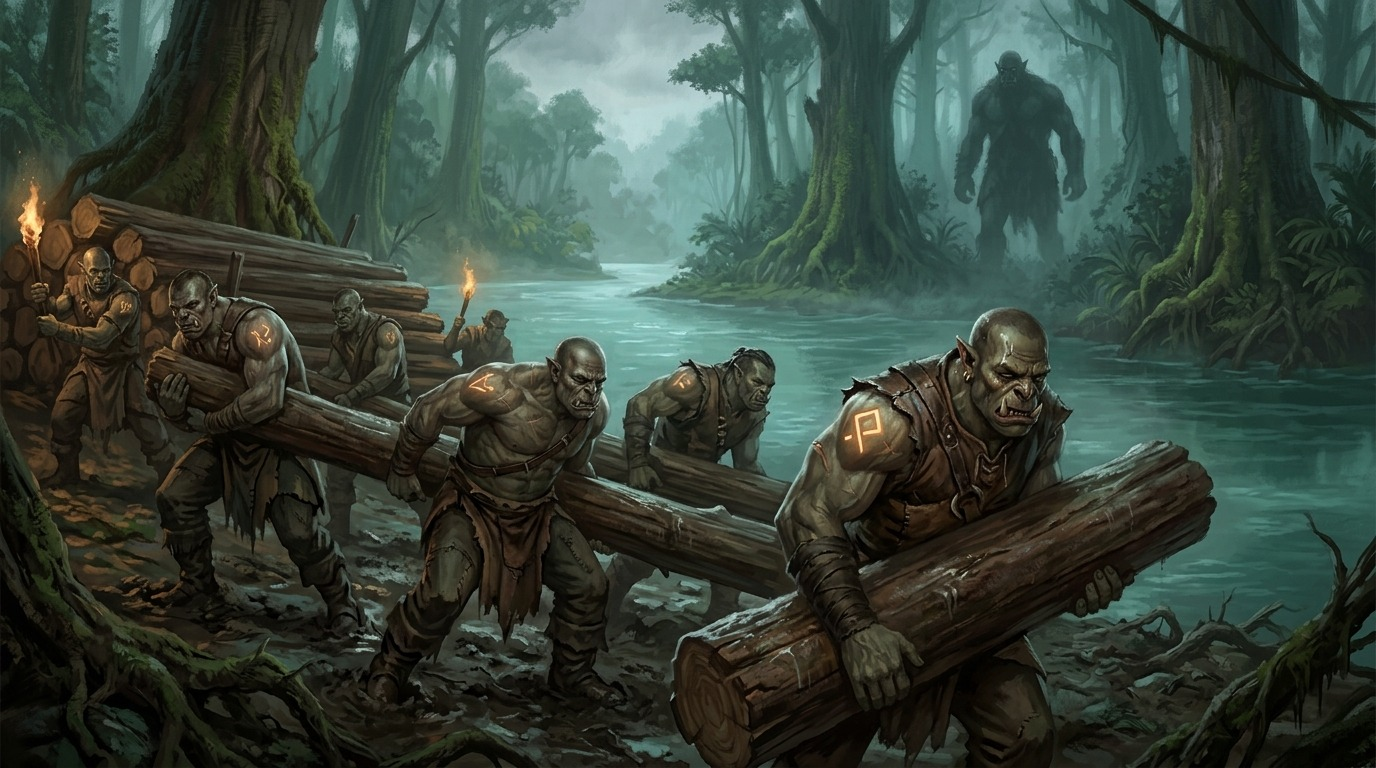
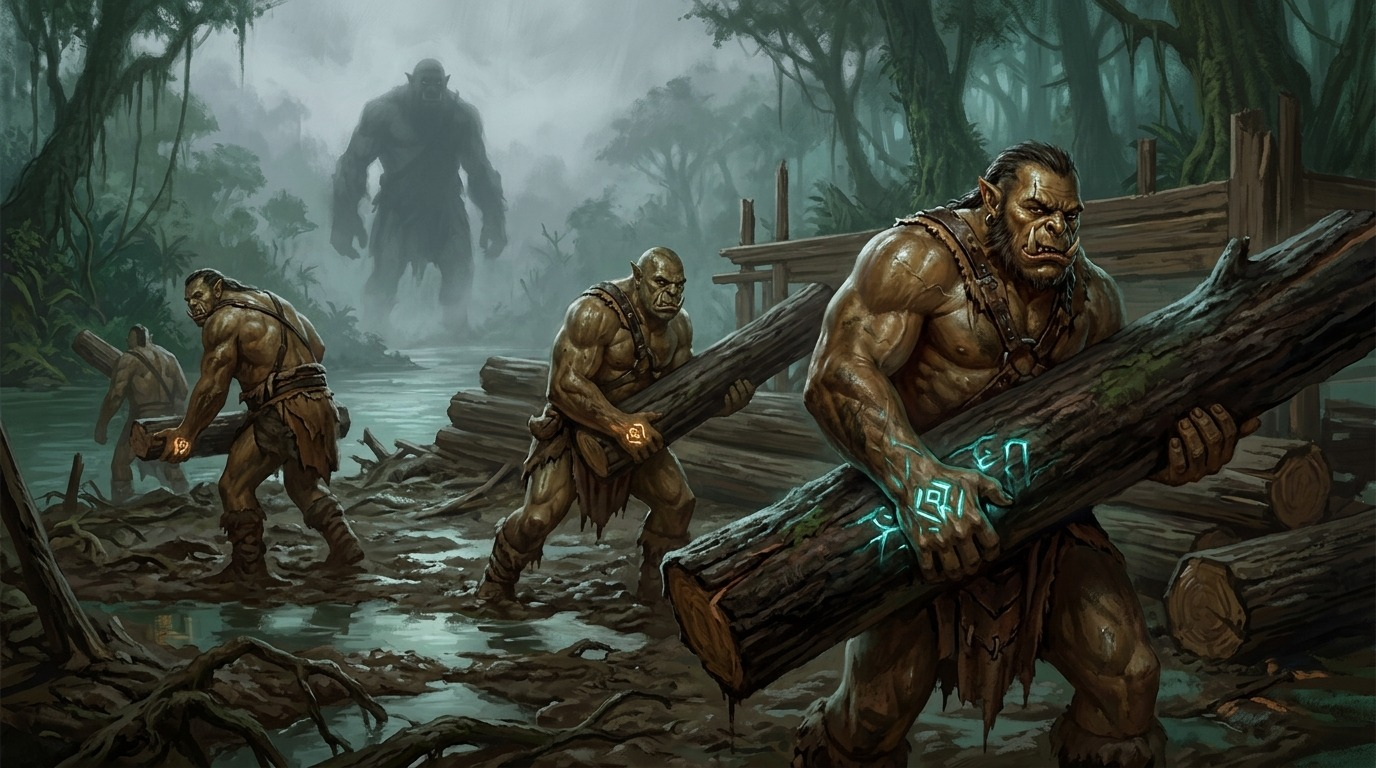
fix: jede Kampagnendatei von Hand geprüft, Netz- und Rüstungsregeln, Orc-Bild neu
Vollständige Durchsicht aller Dateien unter campaign/ (Prüfbericht B 21):
- Netz: Gestoßene retten erst zu Beginn ihres Zuges; wer per Rochade
  ins eigene Netz tauscht, rettet sofort
- Skelette: Fellrüstung (RK 14) statt Lederrüstung (RK 13) zum selben Preis
- Spruchrollen ohne Kalligraphenwerkzeug (Xanathars: nur Arkane Kunde)
- Cams Rolle: ungewöhnlich, DMG 101 bis 500 GM
- Illusionsschrift nach 10 Tagen und Ritual-Aufladung als offen markiert,
  neue Frage an den DM
- Verbannung gegen Eisriesen 50 %, Feenwesen laut DM erlaubt
- Aellas Schild nur mit Einhandwaffe, Blitzresistenz offen
- Nachtplan: Hütte neu wirken, Set nach der Trance vorbereiten
- Veraltetes nachgezogen (Kadaver, Lucira, Kartenpunkt, Ohrring u. a.)
- Orc-Runenmale an der Hand, Bild neu erzeugt
- Journal-Eintrag zur Durchsicht, READMEs zu consumes und Modellwechsel

diff --git a/app/src/routes/werkstatt/+page.svelte b/app/src/routes/werkstatt/+page.svelte
@@ -206,7 +206,7 @@
 			{/each}
 		</ul>
 	{:else}
-		<p class="mt-3 text-sm text-ink-3">Noch kein Projekt. Zum Beispiel eine Lederrüstung für ein Skelett: 10 GM Wert, 5 GM Material, 4 freie Nächte.</p>
+		<p class="mt-3 text-sm text-ink-3">Noch kein Projekt. Zum Beispiel eine Fellrüstung für ein Skelett (RK 14): 10 GM Wert, 5 GM Material, 4 freie Nächte.</p>
 	{/if}
 </section>
 

diff --git a/campaign/docs/pruefbericht.md b/campaign/docs/pruefbericht.md
@@ -8,7 +8,7 @@ updated: 2026-11-15
 ---
 # Prüfbericht
 
-**Stand: 15. November 2026.** Am 14.11.2026 wurden alle Einträge gegeneinander und gegen die Regeln gelesen, das Ergebnis steht in der [[Tiefenanalyse]] und unten bei Punkt B 19. Die Gesamtdurchsicht vom 15.11.2026 (Punkt B 20) hat danach alle Texte noch einmal maschinell und von Hand gegen Spielstand, Uhren und Regeln geprüft. Abgeglichen wurden die 12 Dateien im Drive-Ordner *Valerius*, die 3 Dokumente im Ordner *Kho* (darunter dein Sessionbericht vom 12.10.2026), das alte Grimoire auf GitHub und die D&D-5e-Regeln (Spielerhandbuch 2014, Xanathars Ratgeber für alles, Spelljammer für den Astralelfen). Deine Antworten vom 12.10.2026, dein [[Sessionbericht Juli bis Oktober 2026|Sessionbericht]], die Session vom 08.11.2026 und deine Antworten vom 08. und 09.11.2026 sind eingearbeitet.
+**Stand: 15. November 2026.** Am 14.11.2026 wurden alle Einträge gegeneinander und gegen die Regeln gelesen, das Ergebnis steht in der [[Tiefenanalyse]] und unten bei Punkt B 19. Die Gesamtdurchsicht vom 15.11.2026 hat danach alle Texte maschinell geprüft (Punkt B 20) und jede Datei einzeln von Hand gegen Spielstand, Uhren und Regeln gelesen (Punkt B 21). Abgeglichen wurden die 12 Dateien im Drive-Ordner *Valerius*, die 3 Dokumente im Ordner *Kho* (darunter dein Sessionbericht vom 12.10.2026), das alte Grimoire auf GitHub und die D&D-5e-Regeln (Spielerhandbuch 2014, Xanathars Ratgeber für alles, Spelljammer für den Astralelfen). Deine Antworten vom 12.10.2026, dein [[Sessionbericht Juli bis Oktober 2026|Sessionbericht]], die Session vom 08.11.2026 und deine Antworten vom 08. und 09.11.2026 sind eingearbeitet.
 
 > **Gemini-Entwürfe:** Die beiden „Optimiert“-Dokumente vom 10.10.2026 waren Vorschläge von Gemini und sind **nicht übernommen**. Ihre vier neuen Zauber (Nebelwolke, Spiegelbilder, Gedanken wahrnehmen, Fliegen) wurden nicht übernommen. *Nebelwolke* hast du am 08.11.2026 selbst gewählt. Gemini hat auch in deinen älteren Dokumenten mitgeschrieben. Daher stammen viele der Fehler unten.
 
@@ -99,6 +99,23 @@ updated: 2026-11-15
     - **Neues Regelkapitel „Der Magier“:** die Magiertabelle bis Stufe 20 mit allen Zauberplätzen, Zaubermeisterschaft, Signaturzauber und die Schule der Beschwörung im Überblick.
     - **Ohne Befund geprüft:** deine Werte in allen Texten (SG 15, Zauberangriff +7, TP 36, Übungsbonus +3, 9 vorbereitete Zauber; abweichende Zahlen nur bei klar markierten Zukunftswerten wie Intelligenz 20), die Quest-Bezüge im Journal, das Geld (47 GM, 27 SM), die Stand-Angaben der Dokumente, die Uhren gegen die Lage und das Material für [[Vertrauten finden]] (9 Sätze).
 
+21. **Durchsicht von Hand am 15.11.2026.** Nach dem Prüfskript wurde jede Datei unter `campaign/` einzeln gelesen und gegen die Regeln, den Spielstand und die anderen Einträge geprüft: die 13 Dokumente, alle 48 Welteinträge, die 19 Journal-Einträge, alle 45 Zauber (Regeltext, Werte, Prozente, Tipps, Synergien), die Regelkapitel 01 bis 11 mit allen Zahlen und Preisen, dazu Bogen, Spielstand, Inventar (29 Gegenstände, 26 Wünsche), 31 Quests, 53 Fragen, 7 Uhren, Netzwerk, Geheimnisse, Gefolge, Zauber-Sets, Stammbaum, Karte (14 Punkte), Quellen und die 21 Bildaufträge. Berichtigt:
+    - **Rochade aus dem eigenen Netz:** Mit *Gutartiges Versetzen* holst du einen Gefährten heraus, aber dann stehst du selbst im [[Netz]]. Wer es in seinem eigenen Zug betritt, rettet sofort. Stufe-6-Planer, Tiefenanalyse und Taktik-Handbuch sagen das jetzt dazu.
+    - **[[Donnerwoge]] ins Netz:** Wer hineingestoßen wird, rettet nicht sofort, sondern zu Beginn seines Zuges. Das Netz verlangt den Wurf beim Betreten nur im eigenen Zug.
+    - **Rüstung der Skelette:** Laut DM tragen sie jede Rüstung. Die Fellrüstung kostet wie die Lederrüstung 10 GM (5 GM Material, 4 freie Nächte), gibt aber RK 14 statt 13. Quest, Lage, Ideen, Einkaufsliste, Wunschliste und Werkstatt empfahlen noch Leder.
+    - **Spruchrollen ohne Werkzeug:** Nach Xanathars brauchst du dafür nur Übung in Arkane Kunde. Das Kalligraphenwerkzeug (10 GM) ist aus Einkaufsliste und Wunschliste gestrichen.
+    - **Cams Rolle:** Xanathars nennt keinen Kaufpreis. Eine Rolle des 3. Grades ist ungewöhnlich, das Spielleiterhandbuch nennt dafür 101 bis 500 GM. „50 bis 300 GM“ ist gestrichen.
+    - **[[Illusionsschrift]]:** Dass nach 10 Tagen der echte Text offen liegt, steht nicht in der Regel. Belegt ist nur, dass beim Bannen Täuschung und Text verschwinden. Zauberbuch, Tiefenanalyse und Cams Seite sagen das jetzt, die Frage steht auf der Rätselwand.
+    - **Tensers Scheibe lädt Versetzen auf:** im Zauberbuch und im Taktik-Handbuch noch als Tatsache, jetzt wie im Stufe-6-Planer als *Theorie*.
+    - **[[Verbannung]]:** Ein Eisriese ist in Charisma-Rettungswürfen geübt (+4) und rettet gegen SG 15 zur Hälfte. Dort standen 65 % Erfolg für dich.
+    - **[[Feenwesen beschwören]]:** Dort stand noch „vorher klären, ob euer DM ihn erlaubt“. Tashas Kessel ist erlaubt (09.11.2026).
+    - **Aella:** RK 18 mit Schild gilt nur mit Einhandwaffe, die Sense ist vermutlich zweihändig (siehe F). Ob sie gegen Blitz resistent ist, hängt an ihrer offenen Drachenabstammung. Der Stufe-6-Planer sagte „resistent“.
+    - **Plan vor dem Überfall:** In der Quest stand, du wirkst [[Unsichtbares sehen]], ohne dass es vorbereitet war. Jetzt: Hütte neu, Set nach der Trance, Eule, dann der Zauber.
+    - **Veraltet:** der Kadaver im Inventar („entscheidet der DM“, „offen, wo er liegt“; laut DM untauglich, er liegt bei eurem Haus), Lucira „verschwunden“ (seit dem 08.11. zurück), „zu Fuß“ statt über Land, der Kartenpunkt des Schlachtfelds („wichtigstes Reiseziel“), Cams Ohrring (für den Verwalter, nicht für Aella), *Flammenkugel* und *Nebelwolke* im Taktik-Handbuch noch als Plan.
+    - **Kleinigkeiten:** der Set-Name im Stufe-6-Planer, *Hypnotisches Muster* im Regelkapitel ohne „ab Stufe 6“, die Ritualliste im Bogen ohne *Tensers schwebende Scheibe*, *Spiegelbilder* und *Magierrüstung* ohne den Hinweis, dass du sie nicht willst, „Dehubden“ statt Dehapten, Twees Seite ohne die Ritualregel der Hütte, der Gewinn je Spruchrolle, der Inhalt der Apotheker-Quest (nicht belegt, jetzt neutral), ein Grammatikfehler, das Datum der Alchemie-Seite.
+    - **Bild der Orcs:** Die Runenmale saßen auf Schulter oder Brust. Belegt ist die rechte Handfläche, das Bild ist neu erzeugt.
+    - **Ohne Befund geprüft:** alle SRD-Werte (Riesen, Orc, Skelett, Zombie, Diener, 15 Vertraute), alle Trefferchancen und Prozente in Taktik-Handbuch, Stufe-6-Planer und Zauberbuch, das Handwerk (Preise, Material, freie Nächte, Pfeile), Preise und Gewichte im Regelkapitel Ausrüstung, das Geld (47 GM, 27 SM), die sechs besiegten Sumpfschuppen, die Plätze vom 08.11., die Uhren gegen die Lage. *Totenglocke* „meist immun“ gegen körperlose Untote stimmt.
+
 ### Nur in den Gemini-Entwürfen (zur Info)
 - *Gedanken wahrnehmen*: Tieferes Sondieren ist ein **WE**-Rettungswurf, nicht IN.
 - *Fliegen* wäre auf Stufe 5 kein freier Platz gewesen. Deine Stufe-5-Zauber sind *Tote erwecken* und *Gegenzauber*.
@@ -124,7 +141,7 @@ updated: 2026-11-15
 
 ## D · Offene Fragen
 
-Die offenen Fragen stehen gebündelt auf der **[[Rätselwand]]** und als Druckblatt „Fragen an den DM“. Offen sind 24 Fragen (14 an den DM, 8 an den Tisch, 2 an dich): der Verständigungsstein des Sumpfschuppen-Anführers, Khos Drachenabstammung, 21 aus der Tiefenanalyse vom 14.11.2026 und seit dem 15.11.2026 die Frage, ob ein Beschwörungsritual *Gutartiges Versetzen* auflädt.
+Die offenen Fragen stehen gebündelt auf der **[[Rätselwand]]** und als Druckblatt „Fragen an den DM“. Offen sind 25 Fragen (15 an den DM, 8 an den Tisch, 2 an dich): der Verständigungsstein des Sumpfschuppen-Anführers, Khos Drachenabstammung, 21 aus der Tiefenanalyse vom 14.11.2026 und seit dem 15.11.2026 zwei Regelfragen: ob ein Beschwörungsritual *Gutartiges Versetzen* auflädt und was nach 10 Tagen mit einer *Illusionsschrift* geschieht.
 
 ### Geklärt am 9. November 2026
 - **Namen:** Die Fee heißt **Alucasia**, der befreite Orc **Grum**, eure Basis **Dehapten**.

diff --git a/campaign/docs/stufe-6.md b/campaign/docs/stufe-6.md
@@ -5,7 +5,7 @@ icon: book-open
 order: 5
 group: Zauber & Taktik
 aliases: [Stufe 6, Stufenaufstieg, Planer Stufe 6, Zauberplan]
-updated: 2026-11-14
+updated: 2026-11-15
 ---
 # Stufe-6-Planer
 
@@ -52,7 +52,7 @@ updated: 2026-11-14
 
 | Zauber | Grad | Konz. | Wofür | Trifft eure Leute? |
 | :-- | :-: | :-: | :-- | :-- |
-| [[Blitz]] | 3 | | 8W6 in einer 30-m-Linie aus dir heraus (Ø 28). Mehr Schaden als *Flutwelle*, aber schwerer zu lenken | ja, wer in der Linie steht. Aella ist resistent |
+| [[Blitz]] | 3 | | 8W6 in einer 30-m-Linie aus dir heraus (Ø 28). Mehr Schaden als *Flutwelle*, aber schwerer zu lenken | ja, wer in der Linie steht. Ob Aella gegen Blitz resistent ist, hängt an ihrer Drachenabstammung (offen) |
 | [[Feuerball]] | 3 | | 8W6 in 6 m Radius, gegen dichte Gruppen | ja, alles in der Kugel |
 | [[Schneesturm]] ★ | 3 | ● | Riesen stürzen und kommen kaum voran. Statt *Muster* bei einer Belagerung auf Abstand | ja, 12 m Radius |
 | [[Stinkende Wolke]] ★ | 3 | ● | Trupps verlieren ihre Aktion, die Sicht ist blockiert | ja, 6 m Radius |
@@ -96,7 +96,7 @@ updated: 2026-11-14
 
 Der dritte Grad-3-Platz ist der größte Gewinn: *Gegenzauber*, *Tote erwecken* und ein neuer Grad-3-Zauber passen dann in denselben Tag.
 
-**Vorbereiten:** Mit dem Plan stehen auf Stufe 6 **12 Zauber** ab Grad 1 im Buch, die du vorbereiten musst, und du bereitest **10** vor. Die vier Rituale (*Vertrauten finden*, *Unsichtbarer Diener*, *Magie entdecken*, *Tensers schwebende Scheibe*) zählen nicht mit: Als Magier wirkst du sie aus dem Buch, ohne sie vorzubereiten. Welche 10 es heute sind, wählst du morgens mit einem [[Zauber-Sets|Zauber-Set]]: *Unterwegs*, *Belagerung und Riesen*, *Zauberer, Teufel, Geister* oder *Stadt und Floshem*. Auf Stufe 5 sind es 10 Zauber auf 9 Plätzen.
+**Vorbereiten:** Mit dem Plan stehen auf Stufe 6 **12 Zauber** ab Grad 1 im Buch, die du vorbereiten musst, und du bereitest **10** vor. Die vier Rituale (*Vertrauten finden*, *Unsichtbarer Diener*, *Magie entdecken*, *Tensers schwebende Scheibe*) zählen nicht mit: Als Magier wirkst du sie aus dem Buch, ohne sie vorzubereiten. Welche 10 es heute sind, wählst du morgens mit einem [[Zauber-Sets|Zauber-Set]]: *Unterwegs*, *Belagerung und Riesen*, *Society, Teufel, Geister* oder *Stadt und Floshem*. Auf Stufe 5 sind es 10 Zauber auf 9 Plätzen.
 
 ## Gutartiges Versetzen
 
@@ -108,7 +108,7 @@ Der dritte Grad-3-Platz ist der größte Gewinn: *Gegenzauber*, *Tote erwecken* 
 
 **Einsatz:** Steht ein Gegner vor dir, teleportierst du dich weg oder tauschst mit einem Nahkämpfer: Er steht sofort an deiner Stelle, du an seinem sicheren Platz. Anders als [[Sternenschritt]] kostet es deine Aktion.
 
-**Rochade mit dem Skelett:** Ein Skelett ist mittelgroß und gehorcht. Stell eins an einen sicheren Platz hinter dir. Erreicht dich ein Nahkämpfer, tauschst du mit ihm: Der Gegner steht neben einem Skelett, du 9 m weiter. Genauso holst du einen Gefährten aus einem Griff oder aus deinem eigenen Netz. Ein Vertrauter taugt dafür nicht, er ist winzig.
+**Rochade mit dem Skelett:** Ein Skelett ist mittelgroß und gehorcht. Stell eins an einen sicheren Platz hinter dir. Erreicht dich ein Nahkämpfer, tauschst du mit ihm: Der Gegner steht neben einem Skelett, du 9 m weiter. Genauso holst du einen Gefährten aus einem Griff oder aus deinem eigenen Netz. Dann stehst aber du im Netz: Wer es in seinem eigenen Zug betritt, rettet sofort (bei dir GE +1), danach hilft *Sternenschritt*. Ein Vertrauter taugt dafür nicht, er ist winzig.
 
 ## Was dir die Schule der Beschwörung schenkt
 

diff --git a/campaign/world/cam-buckland.md b/campaign/world/cam-buckland.md
@@ -23,15 +23,15 @@ imageFocus: 50% 35%
 ## Kontakt halten (Stand 09.11.2026)
 
 **Was nicht geht:**
-- **Die Ohrringe** verbinden nur ihre beiden Träger. Cam erreichst du damit nur, wenn er das zweite Stück hat. Es über das Meer zu schicken hieße: einen Boten finden, dem du ein magisches Schmuckstück anvertraust, und Aella verlöre ihren Kanal.
+- **Die Ohrringe** verbinden nur ihre beiden Träger. Cam erreichst du damit nur, wenn er das zweite Stück hat. Es über das Meer zu schicken hieße: einen Boten finden, dem du ein magisches Schmuckstück anvertraust, und dein künftiger Verwalter bekäme den zweiten Ohrring nicht.
 - **Der [[Verständigungsstein]]** erreicht nur Leonidas.
 - **Ein Brief** reist nur mit den Schiffen der Lhaaz, andere fahren nicht (laut DM). Jeder Brief geht also durch Lhaaz-Hände. Ein Brief von „Floshem“ an die Donnergarde wäre besonders gefährlich: Ihr Tod ist in der alten Welt öffentlich, und der [[Maskierter Mönchsmeister|Mönchsmeister]] folgt jeder Spur. Ein toter Briefkasten braucht außerdem einen Boten, dem du vertraust, und den hast du noch nicht.
 
 **Was geht: *Verständigung* (Grad 3).** Die Nachricht reicht über jede Entfernung, hinterlässt keine Spur, und Cam erkennt dich, ohne dass ein Name fällt. Er kann sofort mit 25 Wörtern antworten.
-- **Spruchrolle kaufen und selbst lesen:** Der Zauber steht auf der Magierliste, du wirkst ihn also ohne Wurf von der Rolle. Frag [[Saladin]] oder sieh dich in [[Die südliche Freistadt|Freistadt]] um, nur nicht bei der Society. Nach Xanathars Richtwerten kostet so eine Rolle etwa 50 bis 300 GM, den Preis bestimmt der DM.
+- **Spruchrolle kaufen und selbst lesen:** Der Zauber steht auf der Magierliste, du wirkst ihn also ohne Wurf von der Rolle. Frag [[Saladin]] oder sieh dich in [[Die südliche Freistadt|Freistadt]] um, nur nicht bei der Society. Eine Rolle des 3. Grades ist ein ungewöhnlicher Gegenstand, das Spielleiterhandbuch nennt dafür 101 bis 500 GM. Den Preis bestimmt der DM.
 - **Oder ins Zauberbuch:** Statt sie zu lesen, schreibst du sie ab: 6 Stunden und 150 GM, dazu ein Wurf auf Arkane Kunde gegen SG 13. Die Rolle ist danach in jedem Fall verbraucht. Dafür kannst du *Verständigung* danach immer wirken, für einen Grad-3-Platz.
 - **Einen fremden Zauberer bezahlen** ist keine gute Idee: Er hört jedes Wort.
-- **Ein Brief mit [[Illusionsschrift]] (Ritual):** Nur Cam liest den echten Text, alle anderen sehen einen harmlosen Brief. Die Täuschung hält 10 Tage. Dauert die Überfahrt länger, liegt der echte Text offen.
+- **Ein Brief mit [[Illusionsschrift]] (Ritual):** Nur Cam liest den echten Text, alle anderen sehen einen harmlosen Brief. Die Täuschung hält 10 Tage. Was nach den 10 Tagen geschieht, lässt die Regel offen: Beim Bannen verschwinden Täuschung und echter Text zusammen. **Offen:** Liegt der Text nach Ablauf offen oder ist er weg? Vor einer langen Überfahrt den DM fragen.
 - *Theorie:* Die [[Die Seeelfen|Seeelfen]] kommen ohne Lhaaz-Schiffe über das Meer. Dann gäbe es über Fridolins Leute einen zweiten Weg für Post.
 
 **Lohnt es sich?** Ja, aber nicht sofort. Cam schrieb „Du schuldest mir was, ich melde mich“. Wer sich zuerst meldet, bittet um etwas, und die Schuld wächst. Melde dich, wenn du ihm etwas bieten kannst.

diff --git a/campaign/docs/analyse.md b/campaign/docs/analyse.md
@@ -86,7 +86,7 @@ Am 08.11. hast du zwei Skelette verloren, weil auf dem Dino kein Platz war. [[Te
 
 ### Rochade mit dem Skelett (ab Stufe 6)
 
-[[Gutartiges Versetzen (ab Stufe 6)|Gutartiges Versetzen]] tauscht dich mit einer bereitwilligen kleinen oder mittelgroßen Kreatur in 9 m. Ein Skelett gehorcht und ist mittelgroß. Stell eins an einen sicheren Platz hinter dir. Erreicht dich ein Nahkämpfer, tauschst du: Er steht neben einem Skelett, du 9 m weiter. Jeder Beschwörungszauber ab Grad 1 lädt das Versetzen wieder auf, und fast alle deine Kampfzauber sind Beschwörungen. Du kannst auch einen Gefährten aus einem Griff oder aus deinem eigenen Netz heraustauschen.
+[[Gutartiges Versetzen (ab Stufe 6)|Gutartiges Versetzen]] tauscht dich mit einer bereitwilligen kleinen oder mittelgroßen Kreatur in 9 m. Ein Skelett gehorcht und ist mittelgroß. Stell eins an einen sicheren Platz hinter dir. Erreicht dich ein Nahkämpfer, tauschst du: Er steht neben einem Skelett, du 9 m weiter. Jeder Beschwörungszauber ab Grad 1 lädt das Versetzen wieder auf, und fast alle deine Kampfzauber sind Beschwörungen. Du kannst auch einen Gefährten aus einem Griff oder aus deinem eigenen Netz heraustauschen. Dann stehst aber du im Netz: Wer es in seinem eigenen Zug betritt, rettet sofort (bei dir GE +1), danach hilft *Sternenschritt*.
 
 ### Geringe Beschwörung für die Hand
 
@@ -253,7 +253,7 @@ Hat sie die Gabe aus einer anderen Quelle, gelten andere Regeln. Dann fragst du 
 Die Hand soll Leute führen, die dich nie sehen. Dafür gibt es Zauber, die genau das tun:
 
 - **[[Magischer Mund]] (Ritual, Grad 2):** Ein Gegenstand spricht eine Nachricht von bis zu 25 Wörtern, sobald eintritt, was du festlegst, etwa ein Losungswort. Er bleibt, bis er gebannt wird. So bekommt dein Verwalter Aufträge von einer Wand, und nicht einmal er muss dich kennen. Kostet 10 GM Jadestaub pro Wirken.
-- **[[Illusionsschrift]] (Ritual, Grad 1):** Nur wer von dir bestimmt ist, liest den echten Text. Alle anderen sehen etwas anderes. Jeder Brief in die alte Welt geht durch Lhaaz-Hände: So käme einer an Cam vorbei an ihnen. Die Täuschung hält 10 Tage. Dauert die Überfahrt länger, liegt danach der echte Text offen.
+- **[[Illusionsschrift]] (Ritual, Grad 1):** Nur wer von dir bestimmt ist, liest den echten Text. Alle anderen sehen etwas anderes. Jeder Brief in die alte Welt geht durch Lhaaz-Hände: So käme einer an Cam vorbei an ihnen. Die Täuschung hält 10 Tage. Was nach den 10 Tagen geschieht, lässt die Regel offen: Beim Bannen verschwinden Täuschung und echter Text zusammen. **Offen:** Liegt der Text nach Ablauf offen oder ist er weg? Vor einer langen Überfahrt den DM fragen.
 - **[[Gedanken wahrnehmen]]:** Den Verwalter prüfen, bevor du ihn einweihst. Verhandlungen mit Leonidas und Saladin.
 - **[[Verbannung]] (Grad 4, ab Stufe 7):** Schickt ein Wesen von einer anderen Ebene nach Hause, endgültig, wenn du die Konzentration eine Minute hältst. Das löst dein Versprechen an die Fee ohne die Teufelsjäger, schickt beschworene Dämonen der Society zurück und nimmt einen Riesen für eine Minute aus dem Kampf.
 

diff --git a/campaign/docs/taktik.md b/campaign/docs/taktik.md
@@ -126,8 +126,8 @@ Konzentration brauchen: [[Netz]], [[Nebelwolke]], [[Flammenkugel]], [[Schutz vor
 - **Vertrauter überbringt Berührungszauber:** [[Schutz vor Gut und Böse]] auf Aella, ohne dass du nach vorn musst.
 - **Netz → Flutwelle (ab Stufe 6):** Wer im Netz festhängt, rettet mit Nachteil gegen die Welle und liegt danach. Die Welle ist Wasser, kein Feuer: Nach den Regeln bleibt das Netz.
 - **Hypnotisches Muster → Netz (ab Stufe 6):** Beide brauchen Konzentration. Erst bannen und die Übrigen erledigen. Bist du so weit, legst du das Netz über die Gebannten: Das Muster endet, aber sie stehen schon im Netz und retten zu Beginn ihres Zuges gegen das Festhalten.
-- **Tensers Scheibe → Gutartiges Versetzen (ab Stufe 6):** Das Ritual ist ein Beschwörungszauber ab Grad 1 und lädt dein Versetzen wieder auf, ganz ohne Platz.
-- **Rochade mit dem Skelett (ab Stufe 6):** *Gutartiges Versetzen* tauscht dich mit einer bereitwilligen kleinen oder mittelgroßen Kreatur in 9 m. Stell ein Skelett an einen sicheren Platz. Erreicht dich ein Nahkämpfer, tauschst du: Er steht neben dem Skelett, du 9 m weiter. Genauso holst du einen Gefährten aus einem Griff oder aus deinem eigenen Netz.
+- **Tensers Scheibe → Gutartiges Versetzen (ab Stufe 6):** *Theorie:* Das Ritual bleibt ein Beschwörungszauber des 1. Grades und lädt dein Versetzen wieder auf, ganz ohne Platz. **Offen:** Ob ein Ritual ohne Zauberplatz zählt, entscheidet der DM (Frage auf der [[Rätselwand]]).
+- **Rochade mit dem Skelett (ab Stufe 6):** *Gutartiges Versetzen* tauscht dich mit einer bereitwilligen kleinen oder mittelgroßen Kreatur in 9 m. Stell ein Skelett an einen sicheren Platz. Erreicht dich ein Nahkämpfer, tauschst du: Er steht neben dem Skelett, du 9 m weiter. Genauso holst du einen Gefährten aus einem Griff oder aus deinem eigenen Netz. Dann stehst aber du im Netz: Wer es in seinem eigenen Zug betritt, rettet sofort (bei dir GE +1), danach hilft *Sternenschritt*.
 - **Scheibe → Skelette reisen mit:** [[Tensers schwebende Scheibe]] trägt 225 kg und bleibt 6 m hinter dir, wie schnell du auch reitest. So bleiben deine Skelette beim Dino (DM fragen).
 - **Nebelwolke gegen Nebelschritt:** Der Sprung braucht einen Zielort, den der Zaubernde sieht. Im Nebel gibt es keinen. Wer springen will, muss erst hinauslaufen.
 
@@ -306,8 +306,8 @@ Der Preis: Die Arkane Erholung ist für diesen Tag verbraucht. **Faustregel:** I
 
 ## Positionierung
 
-- **18 m:** Reichweite von *Netz*, *Gegenzauber*, *Eismesser*, *Totenglocke* und *Flammenkugel* (Plan). Nah genug bleiben.
-- **36 m:** *Sengender Strahl* und *Botschaft*, mit dem Plan auch *Nebelwolke*, *Hypnotisches Muster* und *Flutwelle*.
+- **18 m:** Reichweite von *Netz*, *Gegenzauber*, *Eismesser*, *Totenglocke* und *Flammenkugel*. Nah genug bleiben.
+- **36 m:** *Sengender Strahl*, *Botschaft* und *Nebelwolke*, ab Stufe 6 auch *Hypnotisches Muster* und *Flutwelle*.
 - **9 m Abstand** zu Nahkämpfern: eine Bewegung und ein Sternenschritt entfernt.
 
 ## Rasten

diff --git a/campaign/docs/ideen.md b/campaign/docs/ideen.md
@@ -17,13 +17,13 @@ updated: 2026-11-14
 - **Vertrauten neu beschwören und vorausschicken.** Eine [[Eule]] sieht 36 m im Dunkeln und späht nachts Orc-Lager und Riesen aus, ohne dass ihr euch zeigt. Material hast du für 9 Beschwörungen.
 - **Skelette als Nachtwache, aber nicht allein.** Erweckt schlafen sie nicht und sehen 18 m im Dunkeln, ihre passive Wahrnehmung ist aber nur 9. Als Abschreckung gut, als Augen schlecht: Dafür ist die Eule da (passiv 18) oder das Ritual [[Alarm]]. Mit dem Abend- oder Morgen-Trick aus dem [[Taktik-Handbuch]] kostet die Kontrolle keinen Platz.
 - **Skelette auf der Scheibe.** [[Tensers schwebende Scheibe]] trägt sie hinter dem Dino her (DM fragen).
-- **Handwerk in den freien Stunden.** Nach 4 Stunden Trance bist du wach, während die Gruppe weiter rastet. Laut DM kannst du dann Handwerk betreiben und Ausrüstung pflegen: Lederrüstungen für die Skelette, Geschirr fürs Reittier, Kräuter bestimmen. Alles dazu in der [[Werkstatt]].
+- **Handwerk in den freien Stunden.** Nach 4 Stunden Trance bist du wach, während die Gruppe weiter rastet. Laut DM kannst du dann Handwerk betreiben und Ausrüstung pflegen: Fellrüstungen für die Skelette (RK 14), Geschirr fürs Reittier, Kräuter bestimmen. Alles dazu in der [[Werkstatt]].
 - **Kräuter sammeln nebenbei.** Bei normalem oder langsamem Tempo kann jemand unterwegs sammeln, auf dem galoppierenden Dino nicht. Die Fee als Waldläuferin findet am meisten, du bestimmst die Funde mit der Kräuterkundeausrüstung. Anleitung in der [[Werkstatt]].
 - **Pfeile und Köcher kaufen**, sobald ihr an einem Händler vorbeikommt. Siehe Einkaufszettel im Inventar.
 
 ## Geld für die Hand
 
-- **Die Werkstatt jeden Tag nutzen.** Ein Alchemistenfeuer pro langer Rast oder ein Heiltrank pro Arbeitstag bringt zum vollen Preis je 25 GM. Abnehmer: die Kräuterfrau, eine Stadt im Krieg, die Feuer und Heiltränke braucht, später Saladin. Siehe [[Werkstatt]].
+- **Die Werkstatt jeden Tag nutzen.** Ein Alchemistenfeuer pro langer Rast oder ein Heiltrank pro Arbeitstag bringt zum vollen Preis je 25 GM Gewinn (Wert 50 GM, Material 25 GM). Abnehmer: die Kräuterfrau, eine Stadt im Krieg, die Feuer und Heiltränke braucht, später Saladin. Siehe [[Werkstatt]].
 - **Die Belohnung vorher aushandeln.** Hilft ihr der belagerten Stadt, könnt ihr etwas verlangen: Gold, Handelsrechte, ein Lager oder ein Haus für die Hand. Nach dem Sieg ist eure Verhandlungsmacht kleiner.
 - **Der Ruf als Kapital.** Floshem ist ein Mystiker: Niemand weiß, was um ihn herum geschieht, aber als Held der Echsen und Riesen-Schlächter kann es nur Gutes sein (laut dir). Wer ihn um Rat, Schutz oder einen Gefallen bittet, zahlt in Gold oder in Gefälligkeiten. Die vermummten, stummen Diener passen genau in dieses Bild.
 - **Beute verwerten.** Die rostigen Orc-Äxte bringen beim Händler wenig, als Metall oder als Ausrüstung für Verbündete vielleicht mehr.

diff --git a/campaign/docs/lage.md b/campaign/docs/lage.md
@@ -33,7 +33,7 @@ Das Briefing steht im [[Taktik-Handbuch]], die Gründe in der [[Tiefenanalyse]].
 - **Zauberbuch:** 14 Zauber ab Grad 1, neu sind [[Nebelwolke]], [[Flammenkugel]], [[Tensers schwebende Scheibe]] und [[Unsichtbares sehen]]. Das passende [[Zauber-Sets|Zauber-Set]] wählst du nach der Trance, Zauber ohne Material überspringt es von selbst. Auf Stufe 6 kommen *Hypnotisches Muster* und *Flutwelle* (siehe [[Stufe-6-Planer]]).
 - **Nicht wirkbar:** [[Schutz vor Gut und Böse]] verbraucht Weihwasser oder Silber- und Eisenpulver. Du hast keins, der Zauber ist aber noch vorbereitet. Die Zauber-Sets überspringen ihn, bis das Material im Inventar steht.
 - **Untote:** keine aktiven. Ein Orc-Skelett mit Umhang trägst du im Rucksack, zwei inaktive Skelette liegen mit den Society-Uniformen in eurer Unterkunft in [[Die Siedlung|Dehapten]]. Ohne Rüstung haben sie RK 12, allgemeine Befehle gehen (DM).
-- **Astrale Trance:** Für den neuen Tag Lederwerkzeug, für Lederrüstungen der Skelette und Geschirr fürs Reittier. Das Werkzeug beschwörst du mit *Geringer Beschwörung*, das hat der DM erlaubt. Mit Feinden in 100 m gehen Wache und Untote vor. Was du alles herstellen kannst: [[Werkstatt]].
+- **Astrale Trance:** Für den neuen Tag Lederwerkzeug, für Fellrüstungen der Skelette (RK 14, Lederrüstung gäbe nur 13) und Geschirr fürs Reittier. Das Werkzeug beschwörst du mit *Geringer Beschwörung*, das hat der DM erlaubt. Mit Feinden in 100 m gehen Wache und Untote vor. Was du alles herstellen kannst: [[Werkstatt]].
 - **Verbindungen:** der Verständigungsstein zu Leonidas. Er lädt sich im Morgengrauen auf, die Ladung vom 08.11. ist noch da. Die Ohrringe hast du beide bei dir, der zweite ist für deinen künftigen Verwalter gedacht.
 - **Kein Vertrauter:** Die Eule ist seit dem 11.10.2026 tot. Neu beschwören als Ritual, Tukan oder Papagei erst, wenn du einen gesehen hast.
 
@@ -47,4 +47,4 @@ Das Briefing steht im [[Taktik-Handbuch]], die Gründe in der [[Tiefenanalyse]].
 **Euer Ruf:** „Held der Echsenmenschen“ und „Riesenbezwinger, der Schlächter“. Nach der Befreiung der Stadt erwartest du einen Adelstitel (siehe [[Aufbauplan der Unsichtbaren Hand]]).
 
 > [!NOTE] Offen
-> Die Fragen an den DM, an den Tisch und an dich stehen auf der [[Rätselwand]], 21 davon neu seit dem 14.11.2026. Was abläuft, zeigen die Uhren am Spieltisch. Die ganze Session im Journal: [[Die Türen im Nebel und die Sumpfschuppen]].
+> Die Fragen an den DM, an den Tisch und an dich stehen auf der [[Rätselwand]], 23 davon neu seit dem 14.11.2026. Was abläuft, zeigen die Uhren am Spieltisch. Die ganze Session im Journal: [[Die Türen im Nebel und die Sumpfschuppen]].

diff --git a/campaign/docs/einkauf.md b/campaign/docs/einkauf.md
@@ -5,14 +5,14 @@ icon: shopping-bag
 order: 8
 group: Pläne
 aliases: [Einkaufsliste, Einkaufsliste Valerius, Einkaufs- & Verhandlungsliste, Verhandlungsliste]
-updated: 2026-11-14
+updated: 2026-11-15
 ---
 # Einkaufs- und Verhandlungsliste
 
 *Aus deinem Dokument vom 16.11.2025, mit Korrekturen.* Der aktuelle Einkaufszettel mit Preisen und „Kann ich mir das leisten?“ steht unter **Inventar → Einkaufszettel**.
 
 > [!NOTE] Stand November 2026
-> Neu auf dem Zettel: **Lederwerkzeug** (5 GM) und **Weberwerkzeug** (1 GM) für Lederrüstungen, Sattel und Vermummungen, dazu **Pfeile**, **Köcher** und ein **zweiter Kurzbogen** für deine Bogen-Skelette. Was du ohne Gold bekommst, steht bei jedem Eintrag unter „Wie?“.
+> Neu auf dem Zettel: **Lederwerkzeug** (5 GM) und **Weberwerkzeug** (1 GM) für Fellrüstungen der Skelette (RK 14), Sattel und Vermummungen, dazu **Pfeile**, **Köcher** und ein **zweiter Kurzbogen** für deine Bogen-Skelette. Was du ohne Gold bekommst, steht bei jedem Eintrag unter „Wie?“.
 
 **Budget heute: 47 GM, 27 SM.** Im November 2025 waren es 17 GM, 16 SM. Was du ohne Gold bekommst, steht im Einkaufszettel bei „Wie?“ und in der [[Werkstatt]].
 
@@ -31,7 +31,7 @@ updated: 2026-11-14
 | :-- | :-- | :-- | :-- |
 | ~~Kritisch~~ | Alchemistenwerkzeug | 50 GM | **Erledigt:** Geschenk der Kräuterfrau (12.07.2026) |
 | Hoch | Verkleidungsausrüstung | 25 GM | Neue Identität und feinere Tarnung. Die Skelette hast du schon selbst vermummt |
-| Hoch | Spruchrollen-Herstellung | 10 GM Kalligraphenwerkzeug + Material | Material je Rolle: Grad 1 **25 GM**, Grad 2 **250 GM**, Grad 3 **500 GM** (Xanathars) |
+| Hoch | Spruchrollen-Herstellung | nur Material | Je Rolle: Grad 1 **25 GM**, Grad 2 **250 GM**, Grad 3 **500 GM** (Xanathars). Ein Werkzeug brauchst du nicht, nur Übung in Arkane Kunde, und die hast du |
 | ~~Mittel~~ | Spruchrolle *Leomunds winzige Hütte* | 250–500 GM + 150 GM Abschreiben | **Nicht mehr nötig:** Twee wirkt die Hütte als Ritual |
 
 > [!FIX] **Preis für Spruchrollen**

diff --git a/campaign/README.md b/campaign/README.md
@@ -101,6 +101,9 @@ Pflicht: `id, name, en, level (0 = Zaubertrick), school, status, time, economy, 
 - optional: `prepared, ritual, concentration, trigger, target, area, attack, save, damage, rolls[{label, expr}], source,
   valerius, higher, tips[], uses[], rulings[], synergies[{with, text}], conflicts[{with, text}], corrections[{doc, text}], note, docs[]`
 - `card`: Kurzregeln für die Zauberkarte im Druck · `pick: true`: Empfehlung des Stufe-6-Planers (steht bei den Vorschlägen vorn)
+- `consumes`: ID des Gegenstands (Inventar oder Wunschliste), den der Zauber verbraucht. Ein Fokus ersetzt verbrauchtes
+  Material nicht. Fehlt es im Inventar, zeigt der Wirken-Knopf „Material fehlt“ und die Zauber-Sets überspringen den
+  Zauber; beim Wirken zieht die App ein Stück ab. `npm run check:data` warnt bei vorbereiteten Zaubern ohne Material.
 - Würfelausdrücke in `rolls`: `2d8`, `1d20+4` (Anzeige wird automatisch zu 2W8).
 
 ### quests.json
@@ -131,7 +134,8 @@ Pflicht: `id, name, en, level (0 = Zaubertrick), school, status, time, economy, 
 ### zaubersets.json
 `{sets[{id, name, icon, when, spells[], tip}]}`. `spells` sind Zauber-IDs **nach Priorität**: Beim Anwenden werden die
 ersten Zauber aus dem Buch vorbereitet, bis die Grenze (IN-Modifikator + Stufe) erreicht ist. Vorschläge, die noch nicht im
-Buch stehen, zählen nicht und erscheinen als Plan. Rituale und Zaubertricks gehören nicht hinein, sie brauchen keine
+Buch stehen, zählen nicht und erscheinen als Plan. Zauber mit `consumes`, deren Material im Inventar fehlt, überspringt
+das Set und nennt sie unter „Material fehlt“. Rituale und Zaubertricks gehören nicht hinein, sie brauchen keine
 Vorbereitung. `icon` aus `ship | castle | wand | building | swords | moon`. Das zuletzt gewählte Set steht in `state.json` als `spellSet`.
 
 ### geheimnisse.json

diff --git a/campaign/assets/README.md b/campaign/assets/README.md
@@ -30,11 +30,14 @@ python -P scripts/bilder.py              # alle fehlenden Bilder
 python -P scripts/bilder.py --nur fee    # nur diese IDs (kommagetrennt)
 python -P scripts/bilder.py --neu --nur fee   # vorhandenes Bild neu erzeugen
 python -P scripts/bilder.py --liste      # zeigen, was fehlt
+python -P scripts/bilder.py --modell gemini-4-argon-low   # mit diesem Agentenmodell beginnen
 ```
 
 Jedes Bild landet dreifach hier: `<id>.jpg` (Original, 1376 × 768), `<id>.webp` (App) und `<id>-druck.jpg`
-(1000 px, Druckfassung). Nach etwa 13 Bildern sperrt agy für einige Stunden (429). Das Skript hört dann auf und
-nennt die Wartezeit, ein neuer Aufruf macht mit den fehlenden weiter.
+(1000 px, Druckfassung). Nach etwa 13 Bildern sperrt agy für einige Stunden (429), daneben gibt es eine Wochensperre.
+Die Sperre hängt am Agentenmodell: Das Skript wechselt dann selbst zum nächsten Modell aus `AGY_MODELLE`
+(Liste: `agy models`) und hört erst auf, wenn alle gesperrt sind. Dann nennt es die Wartezeit, ein neuer Aufruf macht
+mit den fehlenden weiter.
 
 **Einbinden:** Welt-Eintrag im Frontmatter `image: fee.webp` (optional `imageFocus: 47% 20%` für den Bildausschnitt),
 Journal-Eintrag `images: [{ "file": "nebel-tueren.webp", "caption": "…" }]`, Untote über `retinueImage` in

diff --git a/campaign/regeln/06-zauberwirken.md b/campaign/regeln/06-zauberwirken.md
@@ -140,7 +140,7 @@ Sagt ein Zauber, dass eine Materialkomponente vom Zauber **verbraucht** wird, mu
 Ein Zauberwirker muss eine Hand frei haben, um an die Materialkomponenten eines Zaubers zu gelangen oder einen Zauberfokus zu halten. Es kann aber **dieselbe Hand** sein, mit der er die gestischen Komponenten ausführt.
 
 > [!VAL]
-> Dein Fokus ist der Ring: Er ersetzt Material ohne Preis, das nicht verbraucht wird. Verbrauchtes ersetzt er nie (Sage Advice): *Vertrauten finden* kostet jedes Mal 10 GM, *Schutz vor Gut und Böse* jedes Mal Weihwasser oder Silber- und Eisenpulver. Ohne Stimme gehen nur *Eismesser*, *Geringfügige Illusion*, *Gegenzauber* und *Hypnotisches Muster*. Halte den Stab einhändig, sonst fehlt die Hand für die Gesten.
+> Dein Fokus ist der Ring: Er ersetzt Material ohne Preis, das nicht verbraucht wird. Verbrauchtes ersetzt er nie (Sage Advice): *Vertrauten finden* kostet jedes Mal 10 GM, *Schutz vor Gut und Böse* jedes Mal Weihwasser oder Silber- und Eisenpulver. Ohne Stimme gehen nur *Eismesser*, *Geringfügige Illusion* und *Gegenzauber*, ab Stufe 6 auch *Hypnotisches Muster*. Halte den Stab einhändig, sonst fehlt die Hand für die Gesten.
 
 ## Wirkungsdauer {Duration} {#wirkungsdauer}
 <!-- auch: Unmittelbar -->
